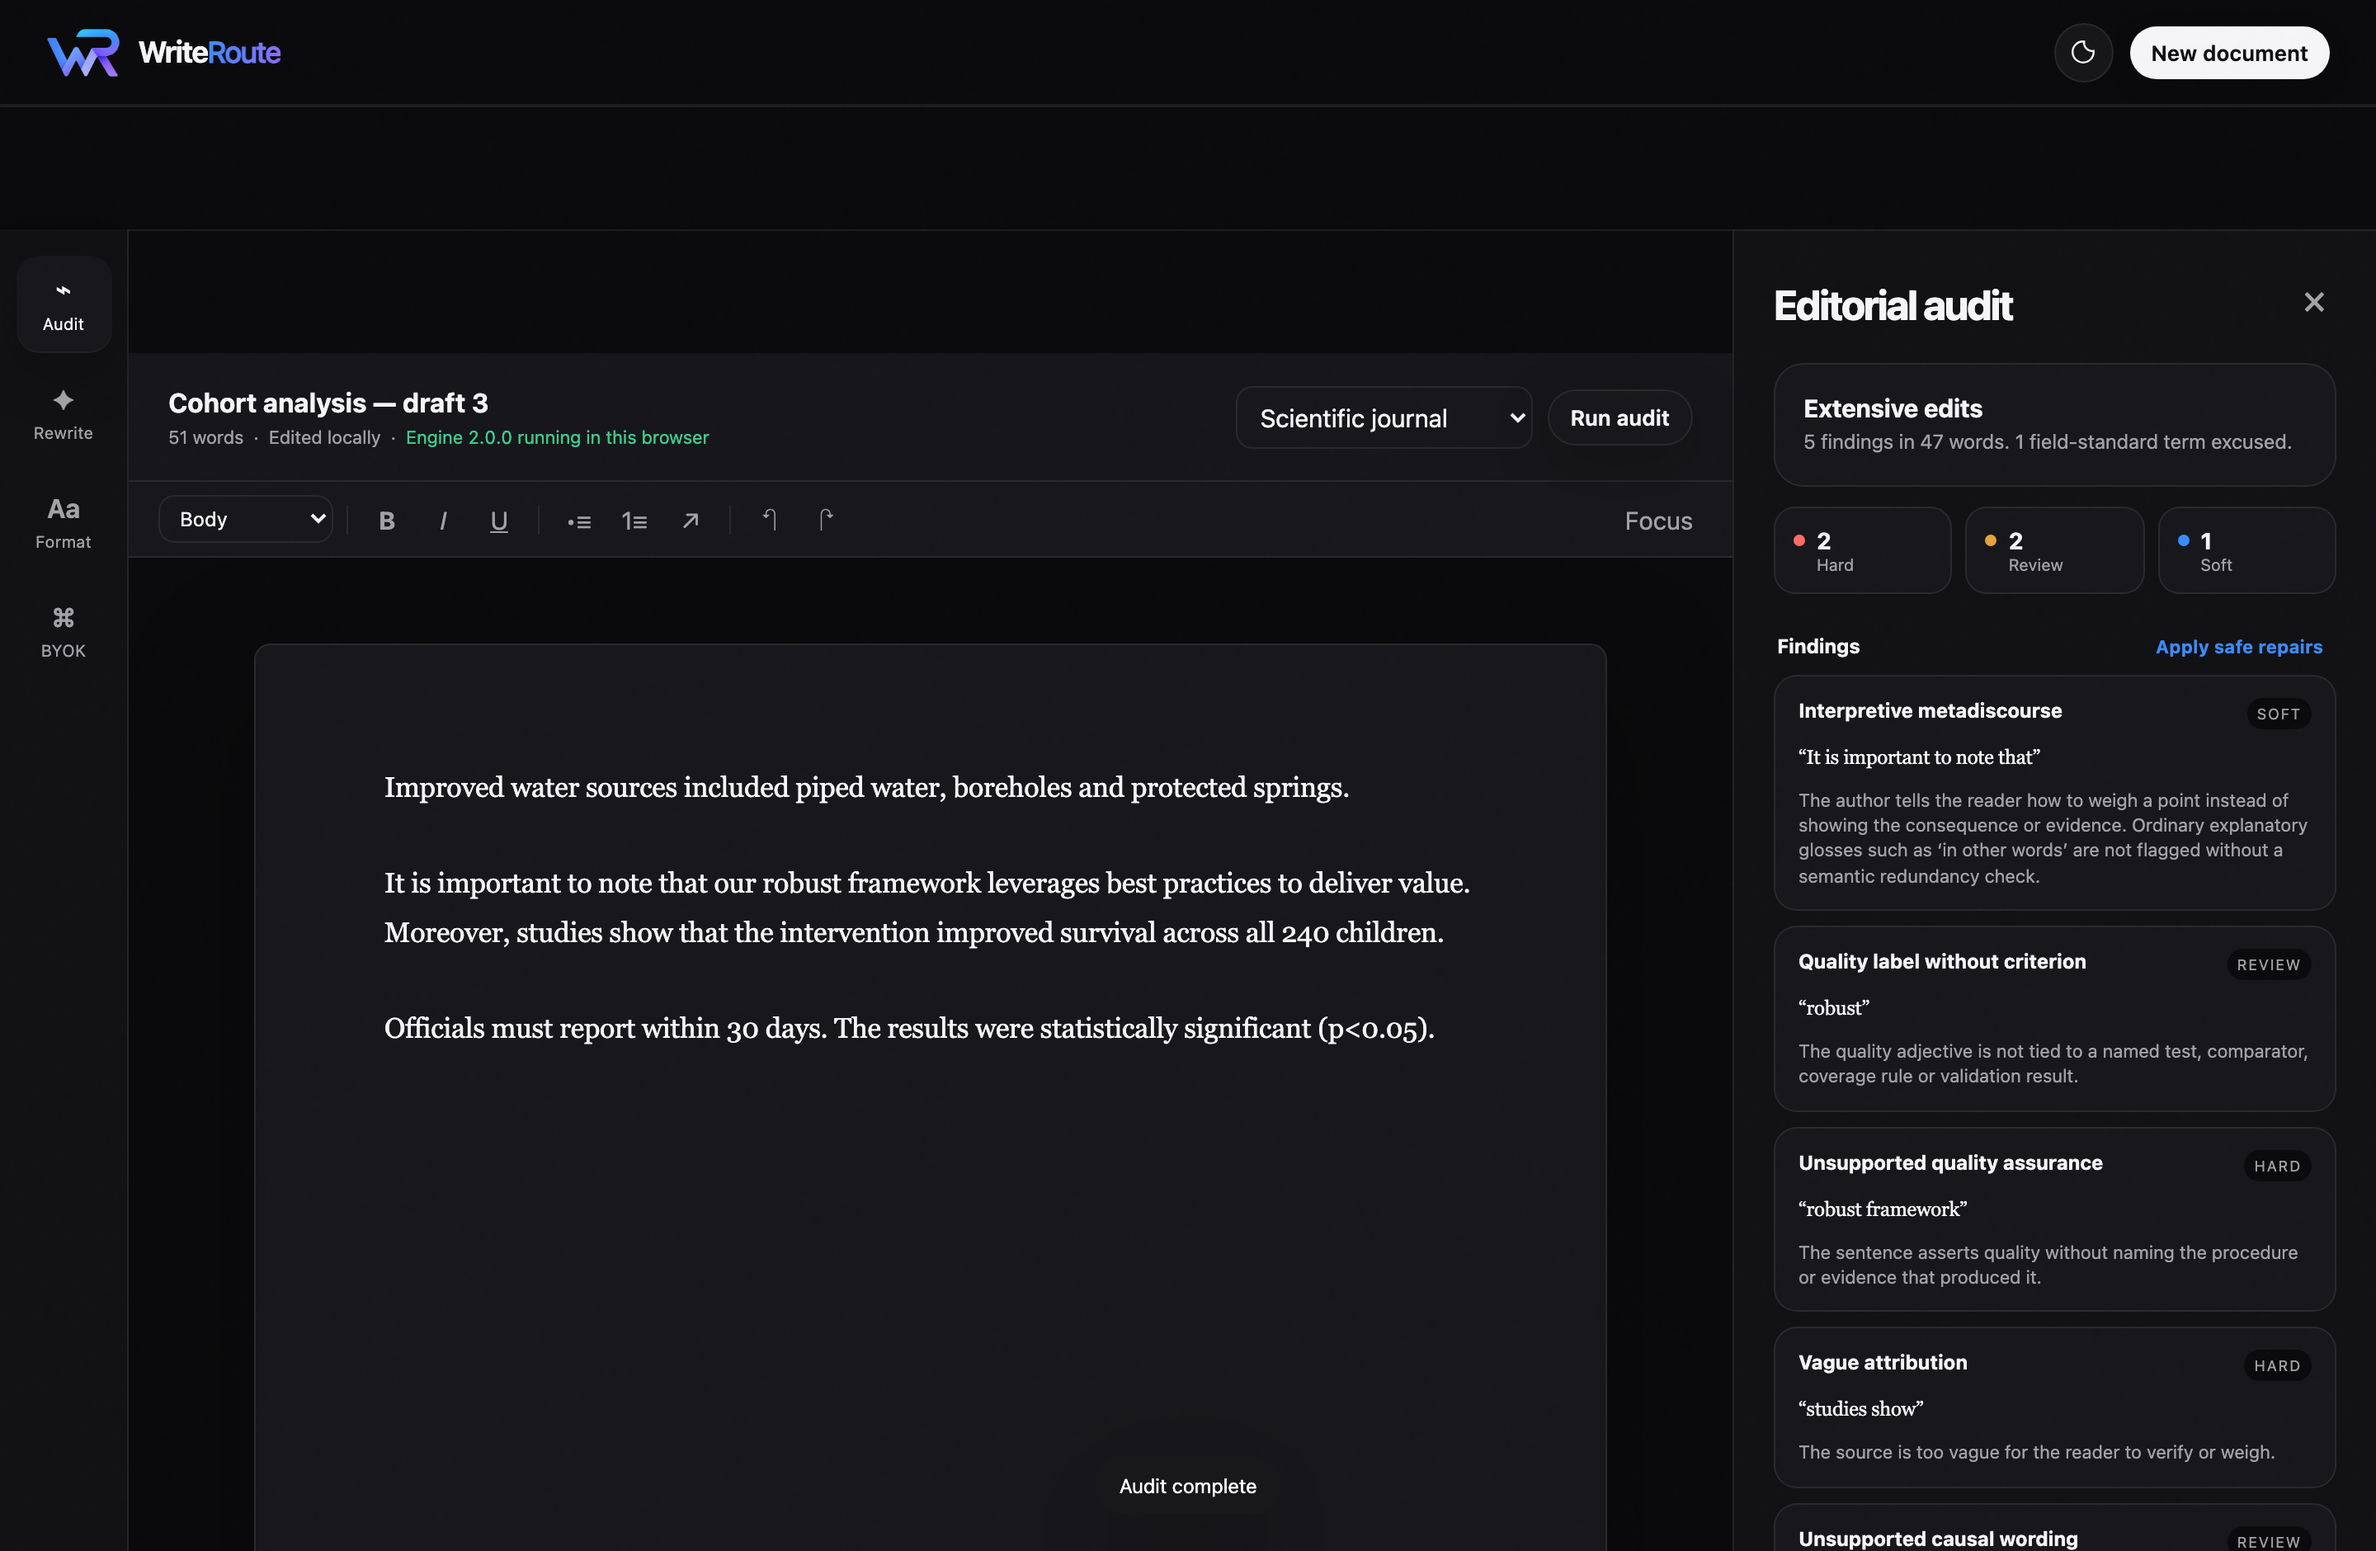
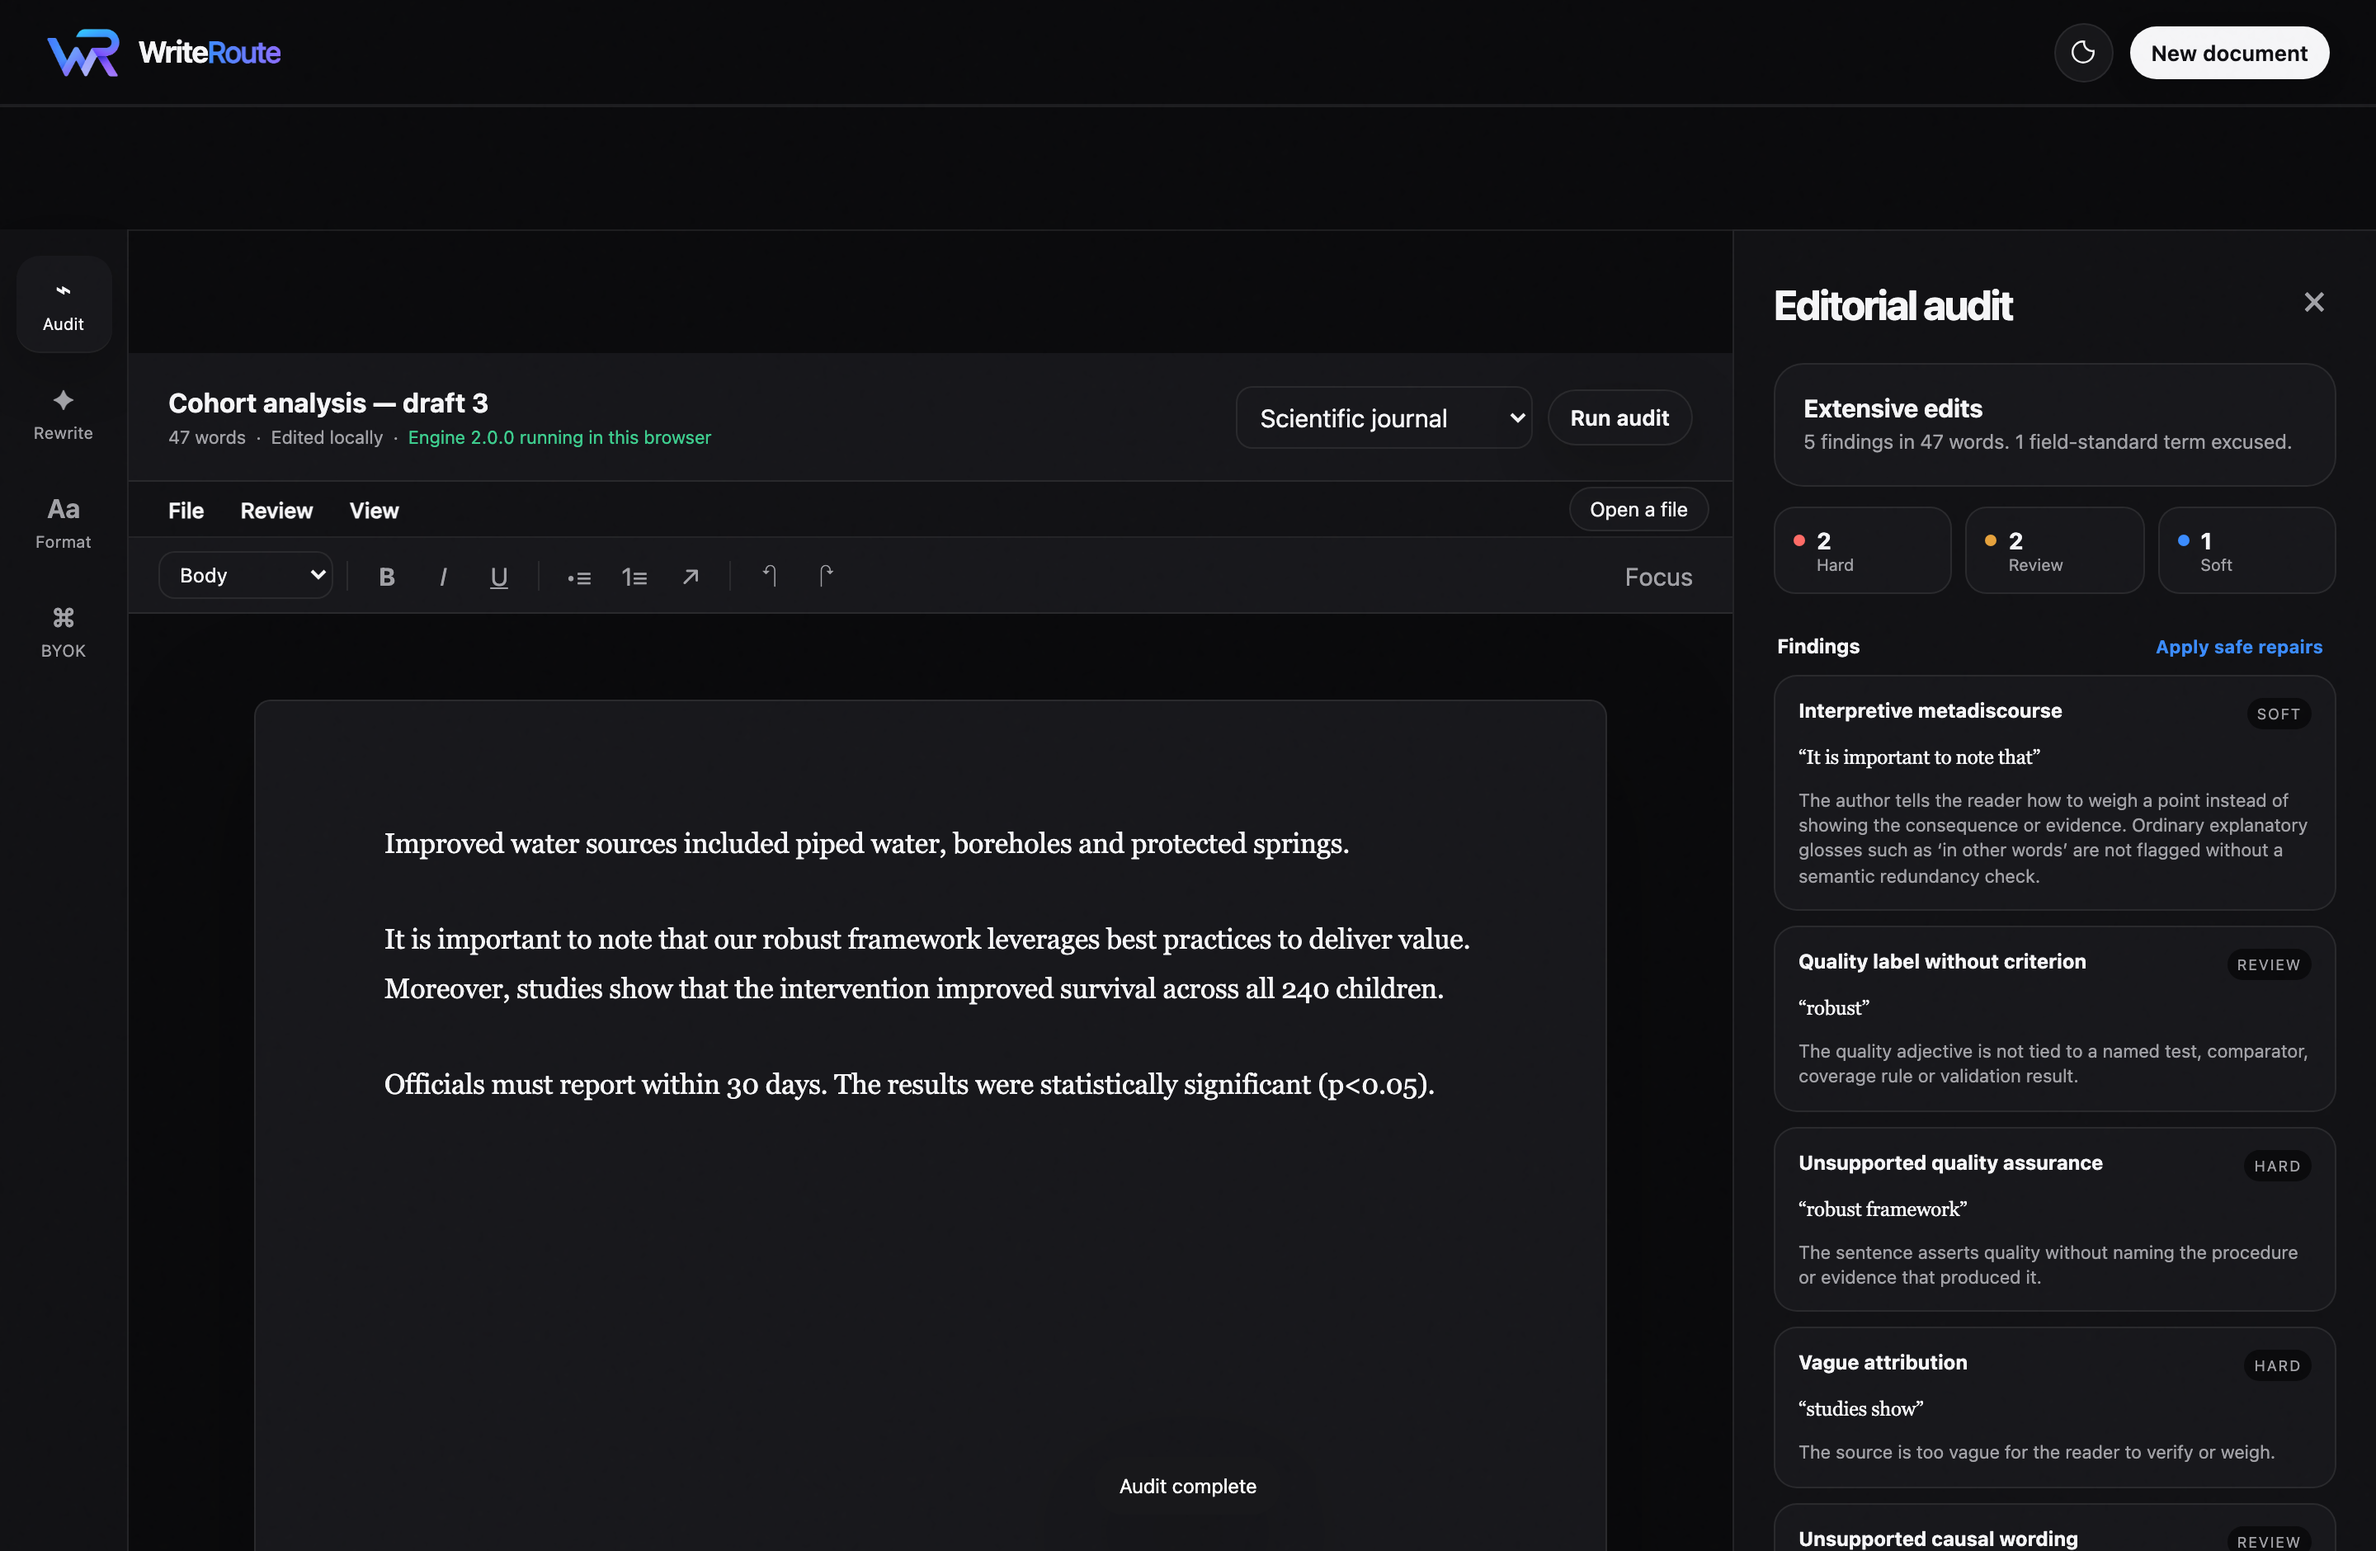
Structural detectors, multilingual segmentation, and a menu bar
Three detectors that measure structure instead of matching clichés. The
catalogue named these patterns but shipped them as literal phrase lists, which
is why the project's own landing page exhibited all three and audited clean:

- negative_definition_habit: the bare "A, not B" form. binary_contrast needed
  a verb, so the noun-phrase version escaped it.
- hollow_closer: a short closing line built from words the paragraph already
  used. A fixed kicker list cannot catch an aphorism invented fresh each time.
- punctuated_tricolon: "Clear. Precise. Human." adjective_tricolon needed
  commas; staccato_run needs four sentences.

All rate-based. Hard findings unchanged in all three benchmark classes, zero
findings on published journal prose, ten hits on machine-written notes. Two
false-positive families removed while tuning: "rather than" is ordinary
academic comparison, and supplement table fragments were reading as taglines.

Multilingual segmentation. _WORD was [A-Za-zÀ-ɏ] — Latin only — so Chinese,
Japanese, Arabic, Hindi, Russian, Greek, Hebrew and Thai tokenised to zero
words, and the splitter knew only .!? so they read as one sentence. Every
statistic on such a document was meaningless. Terminators now cover CJK,
Devanagari, Urdu, Arabic, Ethiopic, Greek and Armenian; words match by Unicode
letter class, with each CJK ideograph counted as one token. Verified across
twelve languages; English benchmark results unchanged to the finding.
[…]

diff --git a/app.js b/app.js
@@ -8,7 +8,12 @@ const editor=$('#editor'), workspace=$('#workspace'), hero=$('#hero'), toast=$('
 
 function showToast(message){ toast.textContent=message; toast.classList.add('show'); clearTimeout(showToast.t); showToast.t=setTimeout(()=>toast.classList.remove('show'),2600); }
 function text(){ return editor.innerText.replace(/\u00a0/g,' ').trim(); }
-function updateCounts(){ const n=(text().match(/\b[\w’'-]+\b/g)||[]).length; $('#wordCount').textContent=`${n.toLocaleString()} words`; state.dirty=true; $('#saveState').textContent='Edited locally'; }
+function updateCounts(){
+ // Unicode-aware, and matching the Python tokeniser: \w is ASCII-only in JS without the
+ // u flag, so a Chinese or Hindi document reported a handful of words while the audit
+ // counted dozens. CJK is written without spaces, so each ideograph counts as one word.
+ const n=(text().match(/[\u3040-\u30ff\u3400-\u4dbf\u4e00-\u9fff\uf900-\ufaff]|[\p{L}][\p{L}'\u2019-]*/gu)||[]).length;
+ $('#wordCount').textContent=`${n.toLocaleString()} words`; state.dirty=true; $('#saveState').textContent='Edited locally'; }
 function openWorkspace(){ hero.classList.add('hidden'); workspace.classList.remove('hidden'); setTimeout(()=>editor.focus(),50); WriteRoute.ensure().catch(e=>showToast(`Engine failed to start: ${e.message}`)); }
 function setDocument(content, name='Untitled document'){ openWorkspace(); state.sourceText=content; state.filename=name.replace(/\.[^.]+$/,'') || 'Untitled document'; $('#docTitle').value=state.filename; editor.textContent=content; state.dirty=false; $('#saveState').textContent='Loaded'; updateCounts(); state.dirty=false; $('#saveState').textContent='Ready'; }
 
@@ -33,18 +38,42 @@ WriteRoute.onStatus(({phase, detail, mode}) => {
  if(phase==='ready') el.title = mode==='server' ? 'Local WriteRoute service' : 'Engine running entirely in this browser';
 });
 
-$('#fileInput').onchange=async e=>{
- const file=e.target.files[0]; if(!file)return;
+async function openFile(file){
+ if(!file)return;
  showToast('Reading document…');
  try{
   const {text:content, sourceFormat}=await extract(file);
   setDocument(content, file.name);
+  // The audit needs a document type, and inference is unreliable enough that guessing
+  // one here would mis-grade the file the moment it loads.
+  if(!$('#genreSelect').value){
+   showToast(`${sourceFormat.toUpperCase()} loaded. Choose the document type to audit it.`);
+   $('#genreSelect').focus();
+   return;
+  }
   const d=await postJSON('audit',{text:content,genre:$('#genreSelect').value});
   renderAudit(d.audit,d.formatting);
   showToast(`${sourceFormat.toUpperCase()} loaded and audited`);
- }
- catch(err){showToast(err.message)} finally{e.target.value=''}
-};
+ }catch(err){showToast(err.message)}
+}
+['#fileInput','#fileInputWorkspace'].forEach(sel=>{
+ const el=$(sel); if(!el)return;
+ el.onchange=async e=>{ await openFile(e.target.files[0]); e.target.value='' };
+});
+
+// Drag a file anywhere onto the editor.
+['dragover','dragenter'].forEach(ev=>document.addEventListener(ev,e=>{
+ if(!e.dataTransfer?.types?.includes('Files'))return;
+ e.preventDefault(); document.body.classList.add('drop-target');
+}));
+['dragleave','drop'].forEach(ev=>document.addEventListener(ev,e=>{
+ if(ev==='dragleave' && e.relatedTarget)return;
+ document.body.classList.remove('drop-target');
+}));
+document.addEventListener('drop',async e=>{
+ const file=e.dataTransfer?.files?.[0]; if(!file)return;
+ e.preventDefault(); await openFile(file);
+});
 
 editor.addEventListener('input',updateCounts);
 $$('.toolbar button[data-command]').forEach(b=>b.onclick=()=>{document.execCommand(b.dataset.command,false,null);editor.focus()});
@@ -201,3 +230,36 @@ function escapeHTML(s){return String(s??'').replace(/[&<>'"]/g,c=>({'&':'&amp;',
 
 // Initial keyboard shortcuts
 addEventListener('keydown',e=>{if((e.metaKey||e.ctrlKey)&&e.key==='Enter'){e.preventDefault();runAudit()}if((e.metaKey||e.ctrlKey)&&e.key.toLowerCase()==='e'&&e.shiftKey){e.preventDefault();$('#exportDialog').showModal()}});
+
+
+/* ------------------------------------------------------------------ menu bar */
+const MENUS=[['#menuFileBtn','#menuFile'],['#menuReviewBtn','#menuReview'],['#menuViewBtn','#menuView']];
+function closeMenus(){ $$('.menu').forEach(m=>{m.classList.remove('open');
+ const b=$('.menu-title',m); if(b)b.setAttribute('aria-expanded','false')}) }
+MENUS.forEach(([btnSel])=>{
+ const btn=$(btnSel); if(!btn)return;
+ btn.onclick=e=>{ e.stopPropagation();
+  const menu=btn.closest('.menu'), wasOpen=menu.classList.contains('open');
+  closeMenus();
+  if(!wasOpen){ menu.classList.add('open'); btn.setAttribute('aria-expanded','true') } };
+});
+document.addEventListener('click',closeMenus);
+addEventListener('keydown',e=>{ if(e.key==='Escape')closeMenus() });
+$$('.menu-list button').forEach(b=>b.addEventListener('click',()=>setTimeout(closeMenus,0)));
+
+$('#menuOpen').onclick=()=>$('#fileInputWorkspace').click();
+$('#menuNew').onclick=()=>$('#newDoc').click();
+$('#menuAudit').onclick=runAudit;
+$('#menuSuggest').onclick=()=>$('#suggestButton').click();
+$('#menuRepair').onclick=()=>$('#repairSafe').click();
+$('#menuModel').onclick=()=>panel('provider');
+$('#menuFocus').onclick=()=>$('#focusMode').click();
+$('#menuInspector').onclick=()=>$('.inspector').classList.toggle('closed');
+$('#menuTheme').onclick=()=>$('#themeToggle').click();
+
+addEventListener('keydown',e=>{
+ if(!(e.metaKey||e.ctrlKey))return;
+ const k=e.key.toLowerCase();
+ if(k==='o'){ e.preventDefault(); $('#fileInputWorkspace').click() }
+ if(k==='n'&&e.shiftKey){ e.preventDefault(); $('#newDoc').click() }
+});

diff --git a/studio.html b/studio.html
@@ -46,7 +46,7 @@
         <button class="rail-button" id="exportOpen"><span class="rail-icon">⇩</span><span>Export</span></button>
       </aside>
 
-      <section class="document-shell">
+      <section class="document-shell has-menubar">
         <div class="document-header">
           <div>
             <input id="docTitle" class="doc-title" value="Untitled document" aria-label="Document title" />
@@ -71,6 +71,44 @@
           </div>
         </div>
 
+        <div class="menubar" role="menubar" aria-label="Main menu">
+          <div class="menu">
+            <button class="menu-title" id="menuFileBtn" aria-haspopup="true" aria-expanded="false">File</button>
+            <div class="menu-list" id="menuFile" role="menu">
+              <button role="menuitem" id="menuOpen">Open…<kbd>&#8984;O</kbd></button>
+              <button role="menuitem" id="menuNew">New document<kbd>&#8984;N</kbd></button>
+              <div class="menu-sep"></div>
+              <button role="menuitem" data-export="docx">Export as Word (.docx)</button>
+              <button role="menuitem" data-export="md">Export as Markdown</button>
+              <button role="menuitem" data-export="txt">Export as plain text</button>
+              <button role="menuitem" data-export="html">Export as HTML</button>
+            </div>
+          </div>
+          <div class="menu">
+            <button class="menu-title" id="menuReviewBtn" aria-haspopup="true" aria-expanded="false">Review</button>
+            <div class="menu-list" id="menuReview" role="menu">
+              <button role="menuitem" id="menuAudit">Run audit<kbd>&#8984;&#8629;</kbd></button>
+              <button role="menuitem" id="menuSuggest">Rule-based suggestions</button>
+              <button role="menuitem" id="menuRepair">Apply safe repairs</button>
+              <div class="menu-sep"></div>
+              <button role="menuitem" id="menuModel">Language model…</button>
+            </div>
+          </div>
+          <div class="menu">
+            <button class="menu-title" id="menuViewBtn" aria-haspopup="true" aria-expanded="false">View</button>
+            <div class="menu-list" id="menuView" role="menu">
+              <button role="menuitem" id="menuFocus">Focus mode</button>
+              <button role="menuitem" id="menuInspector">Show or hide the inspector</button>
+              <button role="menuitem" id="menuTheme">Light or dark</button>
+            </div>
+          </div>
+          <span class="menubar-spacer"></span>
+          <label class="menu-open-inline" title="Open a document">
+            Open a file
+            <input id="fileInputWorkspace" type="file" hidden
+                   accept=".txt,.md,.markdown,.rst,.log,.docx,.pdf,.rtf,.csv" />
+          </label>
+        </div>
         <div class="toolbar" role="toolbar" aria-label="Text formatting toolbar">
           <select id="blockFormat" title="Text style" aria-label="Text style">
             <option value="p">Body</option><option value="h1">Title</option><option value="h2">Heading</option><option value="h3">Subheading</option><option value="blockquote">Quote</option>

diff --git a/styles.css b/styles.css
@@ -19,3 +19,45 @@
 .engine-status[data-phase="loading-runtime"],
 .engine-status[data-phase="loading-engine"],
 .engine-status[data-phase="starting-engine"] { color: var(--amber); }
+
+/* Menu bar. Added because the only file input used to live on the landing hero: once a
+   document was open there was no way to open another without reloading the page. */
+.document-shell.has-menubar { grid-template-rows: auto auto auto 1fr; }
+.menubar {
+  display: flex; align-items: center; gap: 2px; height: 34px; padding: 0 14px;
+  border-bottom: 1px solid var(--line); background: var(--bg2); font-size: 13px;
+}
+.menubar-spacer { flex: 1; }
+.menu { position: relative; }
+.menu-title {
+  border: 0; background: transparent; color: var(--text); cursor: pointer;
+  padding: 5px 10px; border-radius: 7px; font-weight: 520;
+}
+.menu-title:hover, .menu.open .menu-title { background: var(--surface-solid); box-shadow: var(--shadow-sm); }
+.menu-list {
+  display: none; position: absolute; top: 32px; left: 0; z-index: 60; min-width: 236px;
+  padding: 6px; border: 1px solid var(--line); border-radius: 13px;
+  background: var(--surface-solid); box-shadow: var(--shadow);
+}
+.menu.open .menu-list { display: block; }
+.menu-list button {
+  display: flex; width: 100%; align-items: center; justify-content: space-between; gap: 18px;
+  border: 0; background: transparent; color: var(--text); text-align: left; cursor: pointer;
+  padding: 8px 10px; border-radius: 8px; font-size: 13px;
+}
+.menu-list button:hover { background: var(--bg); }
+.menu-list button[disabled] { opacity: .45; cursor: default; }
+.menu-list kbd {
+  font: inherit; font-size: 11px; color: var(--muted); background: transparent; border: 0;
+}
+.menu-sep { height: 1px; margin: 6px 4px; background: var(--line); }
+.menu-open-inline {
+  cursor: pointer; padding: 5px 12px; border-radius: 999px; font-size: 12px;
+  border: 1px solid var(--line); background: var(--surface-solid); color: var(--text);
+}
+.menu-open-inline:hover { border-color: var(--line2); }
+.drop-target { outline: 2px dashed var(--blue); outline-offset: -12px; }
+@media (max-width: 560px) {
+  .menu-open-inline { display: none; }
+  .menubar { overflow-x: auto; }
+}
